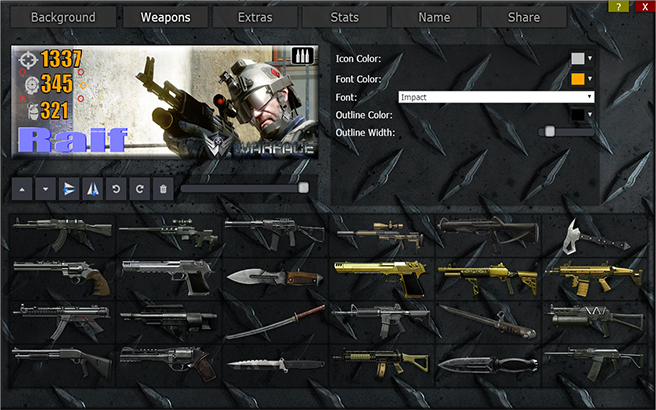
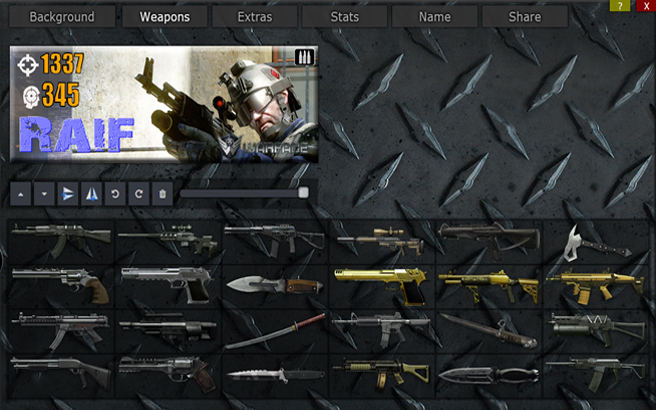
updated screenshto and stuff

diff --git a/app/Files/js/texteffect.js b/app/Files/js/texteffect.js
@@ -46,7 +46,7 @@ var textEffectStyles = {
       "0 0 150px #ff0000"
     ],
     font: {
-      family: 'drifttype'
+      family: 'heavymetal'
     }
   },
   "Anaglyphic": {
@@ -68,7 +68,7 @@ var textEffectStyles = {
       "0px 0px 180px rgba(255,255,255,0.3)"
     ],
     font: {
-      family: 'heavymetal'
+      family: 'defused'
     }
   },
   "Inset": {
@@ -77,7 +77,7 @@ var textEffectStyles = {
       "0px 1px 1px #777"
     ],
     font: {
-      family: 'infected'
+      family: 'trashco'
     }
   },
   // meinen kopf
@@ -137,7 +137,7 @@ var textEffectStyles = {
       "0px -5px 35px rgba(255,255,255,0.3)"
     ],
     font: {
-      family: 'Impact'
+      family: 'infected'
     }
   },
   "Reflection": {
@@ -146,7 +146,7 @@ var textEffectStyles = {
       "0px -36px 0px #fff"
     ],
     font: {
-      family: 'Impact'
+      family: 'ascent2stardom'
     }
   },
   "Flame2": {
@@ -159,7 +159,7 @@ var textEffectStyles = {
       "2px -18px 18px #f20"
     ],
     font: {
-      family: 'Impact'
+      family: 'heavymetal'
     }
   },
   "Other3D": {
@@ -222,7 +222,7 @@ var textEffectStyles = {
       "2px -18px 18px #eee"
     ],
     font: {
-      family: 'Impact'
+      family: 'infected'
     }
   },
   "Other3D2": {
@@ -237,7 +237,7 @@ var textEffectStyles = {
       "-8px -8px 6px 9px #989881"
     ],
     font: {
-      family: 'Impact'
+      family: 'heavymetal'
     }
   },
   "Chocolate2": {
@@ -256,7 +256,7 @@ var textEffectStyles = {
       "-15px 15px 0px rgba(38,21,13,0.25)"
     ],
     font: {
-      family: 'Impact'
+      family: 'drifttype'
     }
   }
 };

diff --git a/app/Files/js/script.js b/app/Files/js/script.js
@@ -615,6 +615,8 @@ $(document).ready(function() {
 
   registerHooksForToolbar($canvas.undoManager);
 
+  //localStorage.removeItem('username');
+  //localStorage.setItem('username', 'Raif');
   var detective = new Detector();
   $('.text-style-preset').each(function() {
     var username = localStorage.getItem("username") || 'Supericy';
@@ -1070,7 +1072,7 @@ function moveLayerUp(layer) {
 authorizationAttempts = 0;
 
 
- var debug = true;
+ var debug = false;
 
 function authorizeUser() {
 
